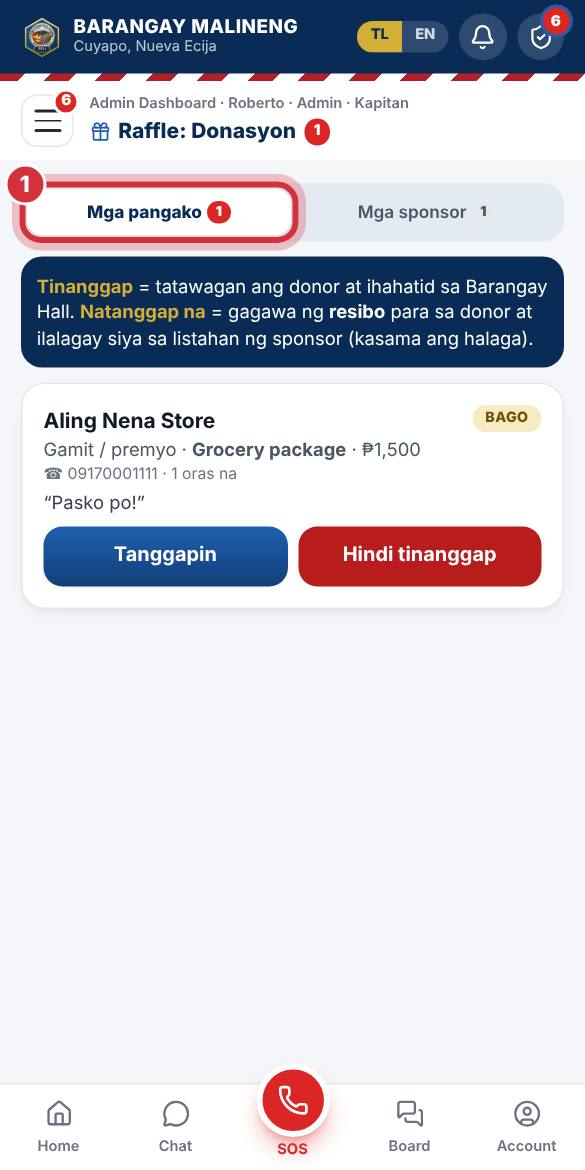
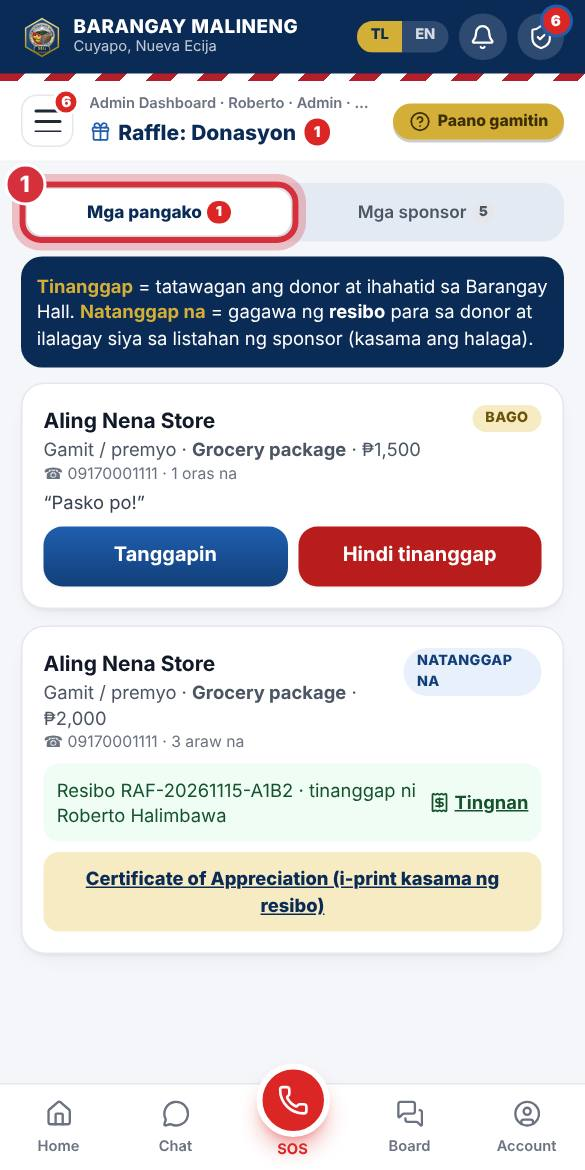
Donor certificate of appreciation: A4 landscape, ivory paper (printed or paper's own colour), official seal, QR check, linked from the receipt
Claude-Session: https://claude.ai/code/session_013F6BoHnbdQ1Ng6Eh2JznKS

diff --git a/malineng-web/src/app/raffle/sertipiko/page.tsx b/malineng-web/src/app/raffle/sertipiko/page.tsx
@@ -1,0 +1,176 @@
+"use client";
+
+import { Suspense, useEffect, useLayoutEffect, useRef, useState } from "react";
+import Link from "next/link";
+import { useSearchParams } from "next/navigation";
+import { doc, getDoc } from "firebase/firestore";
+import { BadgeCheck, Printer, ShieldX } from "lucide-react";
+import { db } from "@/lib/firebase";
+import { useAuth } from "@/context/AuthContext";
+import { useSettings } from "@/lib/useSettings";
+import { formatPeso } from "@/lib/format";
+import type { Donation } from "@/lib/raffleDonations";
+import { LoginGate } from "@/components/LoginGate";
+import { DonorCertificate, type CertificateData } from "@/components/DonorCertificate";
+import { Card, PageHeader, Spinner } from "@/components/ui";
+
+const CERT_W = 1123;
+const CERT_H = 794;
+
+/** Loads the fonts of the certificate (only on this page). Without internet the serif fallback is used. */
+function useCertificateFonts() {
+  useEffect(() => {
+    const link = document.createElement("link");
+    link.rel = "stylesheet";
+    link.href = "https://fonts.googleapis.com/css2?family=Cormorant+Garamond:ital,wght@0,500;0,600;0,700;1,500;1,600&family=Inter:wght@600;700&display=swap";
+    document.head.appendChild(link);
+    return () => link.remove();
+  }, []);
+}
+
+/** The printed page is A4 landscape with no margin, and the page marks itself so the print style applies. */
+function usePrintSetup(ivoryPaper: boolean) {
+  useEffect(() => {
+    const style = document.createElement("style");
+    style.textContent = "@media print { @page { size: A4 landscape; margin: 0; } }";
+    document.head.appendChild(style);
+    document.body.classList.add("cert-printing");
+    return () => {
+      style.remove();
+      document.body.classList.remove("cert-printing", "cert-ivory-paper");
+    };
+  }, []);
+  useEffect(() => {
+    document.body.classList.toggle("cert-ivory-paper", ivoryPaper);
+  }, [ivoryPaper]);
+}
+
+/** Checks a certificate from its QR: public, it reads only what is already on the public sponsor list. */
+function Verify({ id }: { id: string }) {
+  const [s, setS] = useState<{ name: string; what: string; amount: number } | null | undefined>(undefined);
+  useEffect(() => {
+    if (!/^[A-Za-z0-9]{10,40}$/.test(id)) return setS(null);
+    getDoc(doc(db, "raffleSponsors", id))
+      .then((x) => setS(x.exists() ? (x.data() as { name: string; what: string; amount: number }) : null))
+      .catch(() => setS(null));
+  }, [id]);
+  if (s === undefined) return <Spinner label="Sinusuri ang sertipiko..." />;
+  if (!s) {
+    return (
+      <Card className="text-center">
+        <ShieldX className="mx-auto h-14 w-14 text-red-600" aria-hidden />
+        <p className="mt-2 text-xl font-black text-red-700">HINDI MAKITA</p>
+        <p className="mt-1 text-sm text-gray-600">Walang donasyong tugma sa sertipikong ito. Makipag-ugnayan sa Barangay Hall.</p>
+      </Card>
+    );
+  }
+  return (
+    <Card className="text-center">
+      <BadgeCheck className="mx-auto h-14 w-14 text-emerald-600" aria-hidden />
+      <p className="mt-2 text-xl font-black text-emerald-700">TOTOO ANG SERTIPIKO</p>
+      <p className="mt-2 text-lg font-extrabold">{s.name}</p>
+      <p className="text-sm text-gray-600">{s.what}{s.amount ? ` · ${formatPeso(s.amount).replace(".00", "")}` : ""}</p>
+      <p className="mt-2 text-xs text-gray-500">Natanggap ng Barangay Malineng para sa Raffle ng Barangay.</p>
+    </Card>
+  );
+}
+
+function Certificate({ id }: { id: string }) {
+  const { user } = useAuth();
+  const { settings } = useSettings();
+  const [d, setD] = useState<Donation | null | undefined>(undefined);
+  const [ivoryPaper, setIvoryPaper] = useState(false);
+  const wrap = useRef<HTMLDivElement>(null);
+  const [scale, setScale] = useState(0.3);
+  useCertificateFonts();
+  usePrintSetup(ivoryPaper);
+
+  useEffect(() => {
+    if (!id || !user) return;
+    getDoc(doc(db, "raffleDonations", id))
+      .then((s) => setD(s.exists() ? ({ id: s.id, ...s.data() } as Donation) : null))
+      .catch(() => setD(null));
+  }, [id, user]);
+
+  // Fit the sheet to the screen (the printed copy ignores this and prints at full size).
+  useLayoutEffect(() => {
+    const fit = () => wrap.current && setScale(wrap.current.clientWidth / CERT_W);
+    fit();
+    window.addEventListener("resize", fit);
+    return () => window.removeEventListener("resize", fit);
+  }, [d]);
+
+  if (d === undefined) return <Spinner />;
+  if (!d || d.status !== "received") {
+    return <p className="rounded-2xl bg-white p-4 text-center text-sm text-gray-600 shadow-card">Walang sertipiko na nahanap. Lalabas ito pagkatapos matanggap ng Barangay ang donasyon.</p>;
+  }
+
+  const officials = settings.officials;
+  const nameOf = (re: RegExp) => officials.find((o) => re.test(o.position))?.name?.toUpperCase() ?? "";
+  const data: CertificateData = {
+    donorName: d.anon ? "Mapagbigay na Kaibigan" : d.name,
+    what: d.what,
+    amount: d.amount,
+    dateText: d.receivedAt ? d.receivedAt.toDate().toLocaleDateString("fil-PH", { year: "numeric", month: "long", day: "numeric" }) : "",
+    receiptNo: d.receiptNo ?? "",
+    punongName: nameOf(/punong/i),
+    secretaryName: nameOf(/secretary|kalihim/i),
+    verifyUrl: `${window.location.origin}/raffle/sertipiko/?id=${d.id}&v=1`,
+  };
+
+  return (
+    <div className="space-y-3">
+      <div className="no-print space-y-2 rounded-2xl bg-white p-3 shadow-card">
+        <p className="text-sm font-bold">Papel na gagamitin sa pag-print</p>
+        <div className="grid grid-cols-2 gap-2" role="group" aria-label="Papel">
+          {([[false, "Puting papel"], [true, "Ivory na papel"]] as const).map(([v, label]) => (
+            <button key={label} type="button" aria-pressed={ivoryPaper === v} onClick={() => setIvoryPaper(v)} className={`rounded-xl px-2 py-2.5 text-sm font-bold ${ivoryPaper === v ? "bg-brand text-white" : "bg-surface text-gray-700"}`}>
+              {label}
+            </button>
+          ))}
+        </div>
+        <p className="text-xs text-gray-600">
+          {ivoryPaper
+            ? "Hindi ipi-print ang kulay ng background, kaya ang kulay ng mismong papel (ivory) ang lalabas. Tipid sa tinta."
+            : "Ipi-print ang ivory na kulay sa puting papel. Sa print dialog, i-on ang \"Background graphics\" kung wala pa ang kulay."}
+        </p>
+      </div>
+
+      <div ref={wrap} className="cert-stage w-full overflow-hidden rounded shadow-float" style={{ height: CERT_H * scale }}>
+        <div className="cert-scale" style={{ width: CERT_W, height: CERT_H, transform: `scale(${scale})`, transformOrigin: "0 0" }}>
+          <DonorCertificate c={data} />
+        </div>
+      </div>
+
+      <div className="no-print grid grid-cols-2 gap-2">
+        <Link href={`/raffle/resibo/?id=${d.id}`} className="rounded-xl border border-gray-200 bg-white py-2.5 text-center text-sm font-bold text-brand">Bumalik sa resibo</Link>
+        <button onClick={() => window.print()} className="flex items-center justify-center gap-1.5 rounded-xl bg-brand py-2.5 text-sm font-bold text-white"><Printer className="h-4 w-4" aria-hidden /> I-print o i-save (A4)</button>
+      </div>
+      <p className="no-print text-center text-xs text-gray-500">Piliin ang <b>A4</b> at <b>Landscape</b> (pahalang) sa print dialog, at <b>Margins: None</b>. Pwede ring i-save bilang PDF.</p>
+    </div>
+  );
+}
+
+function Inner() {
+  const p = useSearchParams();
+  const id = p.get("id") ?? "";
+  if (p.get("v") === "1") return <Verify id={id} />;
+  return (
+    <LoginGate message="Mag-login para makita ang sertipiko mo.">
+      <Certificate id={id} />
+    </LoginGate>
+  );
+}
+
+export default function SertipikoPage() {
+  return (
+    <div>
+      <div className="no-print">
+        <PageHeader title="Certificate of Appreciation" subtitle="Pasasalamat sa donor" />
+      </div>
+      <Suspense fallback={<Spinner />}>
+        <Inner />
+      </Suspense>
+    </div>
+  );
+}

diff --git a/malineng-web/src/app/globals.css b/malineng-web/src/app/globals.css
@@ -145,3 +145,60 @@ textarea {
   from { transform: rotate(-1.4deg); }
   to { transform: rotate(1.4deg); }
 }
+
+/* ---------- Certificate of Appreciation (A4 landscape, ivory paper) ---------- */
+.cert-sheet {
+  position: relative;
+  width: 1123px;
+  height: 794px;
+  overflow: hidden;
+  background: #f6f0df;
+  color: #14233f;
+  font-family: "Cormorant Garamond", "Playfair Display", Georgia, "Times New Roman", serif;
+  -webkit-print-color-adjust: exact;
+  print-color-adjust: exact;
+}
+.cert-r1 { position: absolute; inset: 24px; border: 2px solid #14233f; }
+.cert-r2 { position: absolute; inset: 32px; border: 1px solid #b8921e; }
+.cert-nt { position: absolute; width: 34px; height: 34px; background: #f6f0df; border: 2px solid #14233f; }
+.cert-wm { position: absolute; left: 50%; top: 53%; width: 520px; height: 520px; margin: -260px 0 0 -260px; opacity: 0.07; border-radius: 50%; }
+.cert-in { position: absolute; inset: 52px 110px 80px; display: flex; flex-direction: column; align-items: center; text-align: center; }
+.cert-seal { width: 112px; height: 112px; border-radius: 50%; box-shadow: 0 8px 18px -8px rgba(0, 0, 0, 0.45); }
+.cert-org { margin-top: 10px; font: 600 12px Inter, Arial, sans-serif; letter-spacing: 0.28em; color: #6b5a25; }
+.cert-brgy { margin-top: 3px; font-weight: 700; font-size: 24px; letter-spacing: 0.3em; color: #14233f; }
+.cert-ofc { margin-top: 2px; font: 600 11px Inter, Arial, sans-serif; letter-spacing: 0.3em; color: #6b5a25; }
+.cert-title { margin-top: 22px; display: flex; align-items: center; justify-content: center; gap: 22px; width: 100%; }
+.cert-title i { height: 1px; flex: 1; max-width: 210px; background: linear-gradient(90deg, transparent, #b8921e); }
+.cert-title i:last-child { background: linear-gradient(270deg, transparent, #b8921e); }
+.cert-title h2 { margin: 0; font-weight: 700; font-size: 46px; line-height: 1; letter-spacing: 0.2em; white-space: nowrap; color: #14233f; }
+.cert-sub { margin-top: 8px; font: 600 14px Inter, Arial, sans-serif; letter-spacing: 0.34em; color: #8a6a12; }
+.cert-pres { margin-top: 24px; font-style: italic; font-weight: 500; font-size: 22px; color: #6b5a25; }
+.cert-name { margin-top: 4px; font-style: italic; font-weight: 600; font-size: 66px; line-height: 1.1; padding: 0 60px 4px; border-bottom: 1.5px solid #b8921e; max-width: 100%; overflow-wrap: anywhere; }
+.cert-body { margin-top: 16px; font-weight: 500; font-size: 21px; line-height: 1.55; max-width: 700px; color: #3a3320; }
+.cert-facts { margin-top: 18px; display: grid; grid-template-columns: repeat(4, auto); border-top: 1px solid #cdb77a; border-bottom: 1px solid #cdb77a; }
+.cert-facts div { padding: 9px 28px; border-left: 1px solid #cdb77a; text-align: center; }
+.cert-facts div:first-child { border-left: 0; }
+.cert-facts small { display: block; font: 600 10px Inter, Arial, sans-serif; letter-spacing: 0.22em; color: #8a6a12; }
+.cert-facts b { display: block; margin-top: 2px; font-weight: 700; font-size: 18px; letter-spacing: 0.04em; }
+.cert-sigs { margin-top: auto; display: grid; grid-template-columns: 1fr 70px 1fr; gap: 40px; width: 100%; align-items: end; }
+.cert-sigs > div:not(.cert-qrbox) { padding-top: 7px; border-top: 1.5px solid #14233f; }
+.cert-sigs b { display: block; font-weight: 700; font-size: 19px; letter-spacing: 0.06em; }
+.cert-sigs small { display: block; margin-top: 2px; font: 600 10.5px Inter, Arial, sans-serif; letter-spacing: 0.24em; color: #6b5a25; }
+.cert-qrbox { width: 66px; height: 66px; margin: 0 auto; padding: 4px; border: 1px solid #14233f; border-radius: 4px; }
+.cert-qr { display: block; width: 100%; height: 100%; }
+.cert-ver { position: absolute; left: 110px; right: 110px; bottom: 46px; display: flex; justify-content: space-between; font: 600 10px Inter, Arial, sans-serif; letter-spacing: 0.12em; color: #8a7a45; }
+
+@media print {
+  /* The certificate prints alone, edge to edge on A4 landscape. */
+  body.cert-printing { background: #fff !important; margin: 0 !important; height: 793px !important; overflow: hidden !important; }
+  /* One A4 page (793.7 px tall): a sheet of 794 px would spill a sliver onto a second, blank page. */
+  body.cert-printing .cert-sheet,
+  body.cert-printing .cert-scale { height: 793px !important; }
+  body.cert-printing main { min-height: 0 !important; height: 793px !important; margin: 0 !important; padding: 0 !important; max-width: none !important; overflow: hidden !important; }
+  body.cert-printing .cert-stage { margin: 0 !important; height: 793px !important; overflow: hidden !important; break-after: avoid; break-inside: avoid; }
+  body.cert-printing .cert-stage { width: auto !important; height: auto !important; box-shadow: none !important; border-radius: 0 !important; }
+  body.cert-printing .cert-scale { transform: none !important; }
+  /* Ivory paper in the printer: nothing to print behind the text, the paper itself is the ivory. */
+  body.cert-printing.cert-ivory-paper .cert-sheet,
+  body.cert-printing.cert-ivory-paper .cert-nt { background: transparent !important; }
+}

diff --git a/malineng-web/src/components/DonorCertificate.tsx b/malineng-web/src/components/DonorCertificate.tsx
@@ -1,0 +1,80 @@
+"use client";
+
+import { useEffect, useState } from "react";
+
+export interface CertificateData {
+  donorName: string;
+  what: string;
+  /** Peso value, 0 when it has none. */
+  amount: number;
+  /** "Nobyembre 15, 2026" */
+  dateText: string;
+  receiptNo: string;
+  punongName: string;
+  secretaryName: string;
+  /** The page the QR opens (checks that the certificate is real). */
+  verifyUrl: string;
+}
+
+const peso = (n: number) => `₱${n.toLocaleString("en-PH")}`;
+
+/** The QR of the verification page, drawn on the phone (no server). */
+function Qr({ text }: { text: string }) {
+  const [src, setSrc] = useState("");
+  useEffect(() => {
+    let live = true;
+    import("qrcode")
+      .then((QR) => QR.toDataURL(text, { margin: 0, width: 240, errorCorrectionLevel: "M", color: { dark: "#14233F", light: "#0000" } }))
+      .then((u) => live && setSrc(u))
+      .catch(() => live && setSrc(""));
+    return () => {
+      live = false;
+    };
+  }, [text]);
+  // eslint-disable-next-line @next/next/no-img-element
+  return src ? <img src={src} alt="QR para sa beripikasyon ng sertipiko" className="cert-qr" /> : <span className="cert-qr" aria-hidden />;
+}
+
+/**
+ * Certificate of Appreciation for a donor, A4 landscape (1123 x 794 px = 297 x 210 mm at 96 dpi).
+ * Ivory paper, navy text, thin gold rules, the official seal of the Barangay. Styles are in globals.css (.cert-*).
+ */
+export function DonorCertificate({ c }: { c: CertificateData }) {
+  return (
+    <div className="cert-sheet">
+      <div className="cert-r1" />
+      <div className="cert-r2" />
+      {["left-[7px] top-[7px]", "right-[7px] top-[7px]", "left-[7px] bottom-[7px]", "right-[7px] bottom-[7px]"].map((p) => (
+        <span key={p} className={`cert-nt ${p}`} />
+      ))}
+      {/* eslint-disable-next-line @next/next/no-img-element */}
+      <img className="cert-wm" src="/seal-barangay.webp" alt="" />
+      <div className="cert-in">
+        {/* eslint-disable-next-line @next/next/no-img-element */}
+        <img className="cert-seal" src="/seal-barangay.webp" alt="Sagisag ng Barangay Malineng" />
+        <div className="cert-org">REPUBLIKA NG PILIPINAS &nbsp;·&nbsp; PROBINSYA NG NUEVA ECIJA &nbsp;·&nbsp; BAYAN NG CUYAPO</div>
+        <div className="cert-brgy">BARANGAY MALINENG</div>
+        <div className="cert-ofc">TANGGAPAN NG PUNONG BARANGAY</div>
+        <div className="cert-title"><i /><h2>CERTIFICATE</h2><i /></div>
+        <div className="cert-sub">OF APPRECIATION</div>
+        <div className="cert-pres">Buong pasasalamat na iginagawad kay</div>
+        <div className="cert-name">{c.donorName}</div>
+        <div className="cert-body">
+          bilang pagkilala sa inyong mapagbigay na donasyon para sa <b>Raffle ng Barangay</b>. Ang inyong kabutihan ay nagdala ng saya at pag-asa sa ating mga kabarangay.
+        </div>
+        <div className="cert-facts">
+          <div><small>IBINIGAY</small><b>{c.what}</b></div>
+          <div><small>HALAGA</small><b>{c.amount > 0 ? peso(c.amount) : "—"}</b></div>
+          <div><small>PETSA</small><b>{c.dateText}</b></div>
+          <div><small>RESIBO BLG.</small><b>{c.receiptNo}</b></div>
+        </div>
+        <div className="cert-sigs">
+          <div><b>{c.punongName || " "}</b><small>PUNONG BARANGAY</small></div>
+          <div className="cert-qrbox"><Qr text={c.verifyUrl} /></div>
+          <div><b>{c.secretaryName || " "}</b><small>BARANGAY SECRETARY</small></div>
+        </div>
+      </div>
+      <div className="cert-ver"><span>Beripikahin: i-scan ang QR gamit ang camera ng phone</span><span>Salamat po, mula sa Barangay Malineng</span></div>
+    </div>
+  );
+}

diff --git a/malineng-web/src/app/raffle/resibo/page.tsx b/malineng-web/src/app/raffle/resibo/page.tsx
@@ -59,6 +59,7 @@ function Receipt() {
         </div>
         <p className="mt-4 text-center text-[0.7rem] text-gray-500">Salamat sa iyong donasyon! Ito ay patunay ng pagtanggap ng Barangay Malineng. Hindi ito opisyal na resibo ng BIR.</p>
       </article>
+      <Link href={`/raffle/sertipiko/?id=${d.id}`} className="no-print block rounded-xl bg-gold py-2.5 text-center text-sm font-extrabold text-brand-deep">Certificate of Appreciation</Link>
       <div className="no-print grid grid-cols-2 gap-2">
         <Link href="/raffle" className="rounded-xl border border-gray-200 bg-white py-2.5 text-center text-sm font-bold text-brand">Bumalik</Link>
         <button onClick={() => window.print()} className="flex items-center justify-center gap-1.5 rounded-xl bg-brand py-2.5 text-sm font-bold text-white"><Printer className="h-4 w-4" aria-hidden /> I-print o i-save</button>

diff --git a/malineng-web/src/components/admin/AdminRaffleDonations.tsx b/malineng-web/src/components/admin/AdminRaffleDonations.tsx
@@ -132,6 +132,11 @@ function PledgeCard({ d }: { d: Donation }) {
           <Link href={`/raffle/resibo/?id=${d.id}`} className="flex shrink-0 items-center gap-1 font-bold underline"><Receipt className="h-4 w-4" aria-hidden /> Tingnan</Link>
         </div>
       )}
+      {d.status === "received" && (
+        <div className="rounded-xl bg-gold-light p-2.5 text-sm">
+          <Link href={`/raffle/sertipiko/?id=${d.id}`} className="block text-center font-extrabold text-brand-deep underline">Certificate of Appreciation (i-print kasama ng resibo)</Link>
+        </div>
+      )}
 
       {isSuperAdmin && (
         <Button
